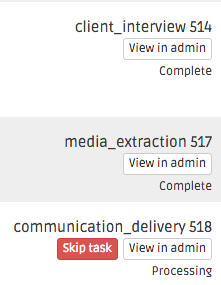
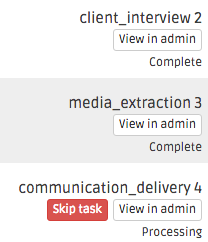
Copy edits

diff --git a/docs/source/bots.rst b/docs/source/bots.rst
@@ -133,9 +133,9 @@ Usage
 Automatic Task Staffing in Orchestra
 ====================================
 
-``StaffBot`` allows interaction with Orchestra via Slack to assign or reassign an
-expert to a task. To use ``StaffBot``, simply type ``/staffbot`` into your slack
-window, and will see an auto complete similar to:
+``StaffBot`` allows interaction with Orchestra via Slack to assign or reassign
+an expert to a task. To use ``StaffBot``, simply type ``/staffbot`` into your
+slack window, and will see an autocomplete similar to:
 
 .. image:: ../static/img/bots/slash_command_window.png
 
@@ -153,27 +153,27 @@ below) or from notification emails/Slack messages about a project.
 .. image:: ../static/img/bots/task_id_example.png
 
 In this example, you have just finished the ``client_interview`` task and need
-to add someone to the ``communication_delivery`` task with id ``518``, so
+to add someone to the ``communication_delivery`` task with id ``4``, so
 you can type::
 
-  /staffbot staff 518
+  /staffbot staff 4
 
 ``Staffbot`` will then reach out to eligible experts asking them if they would
 like to work on the task. Once one of them accepts, they will be added to the
 private Slack channel for the project and can begin working on the task.
 
 If a task has a review step, you can use ``StaffBot`` to assign an expert to
-the review step once the entry level work has been completed.
+the review step once the first expert has submitted their work for review.
 
 Using the ``restaff`` command
 =============================
 
 You can also use the ``restaff`` command to offer a task to a different expert.
 This will be useful if a expert is unable to complete the task. Following the
-example above, assume that the worker ``joshblum`` accepted the task ``518``.
+example above, assume that the worker ``joshblum`` accepted the task ``4``.
 To restaff this task you can type::
 
-  /staffbot restaff 518 joshblum
+  /staffbot restaff 4 joshblum
 
 This will offer the task again to eligible experts, and once a new expert
 accepts, ``joshblum`` will be removed and the new expert will be added.
